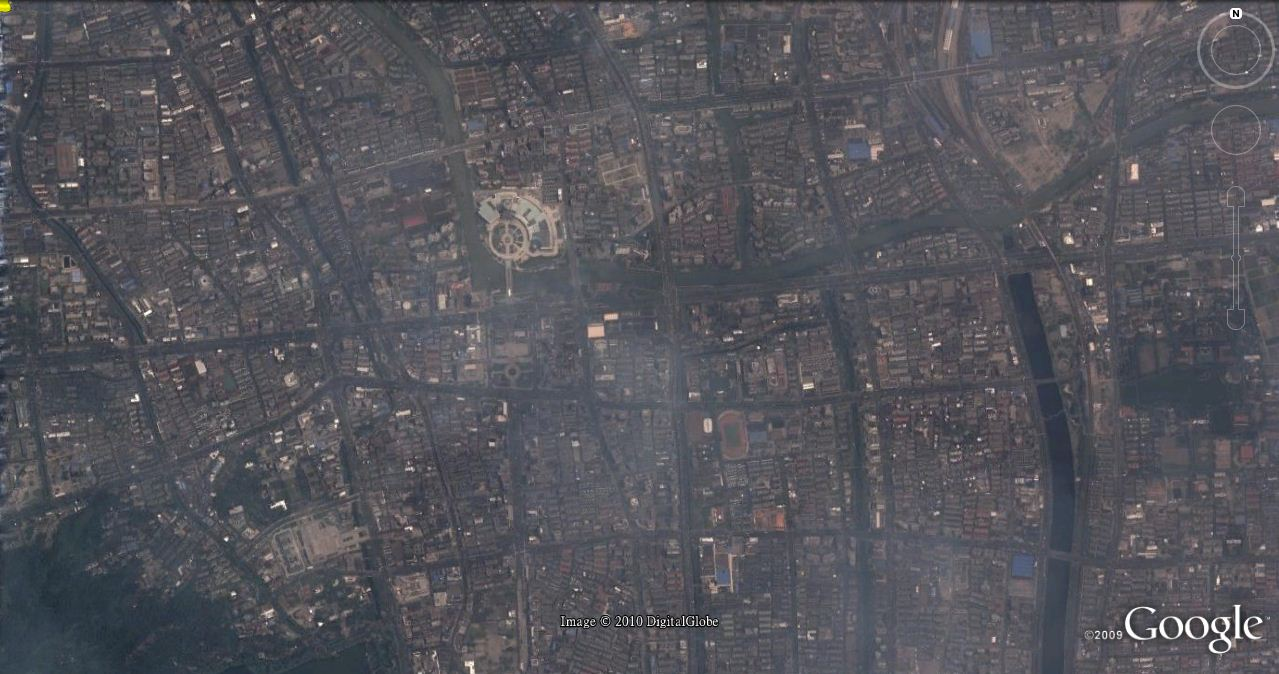
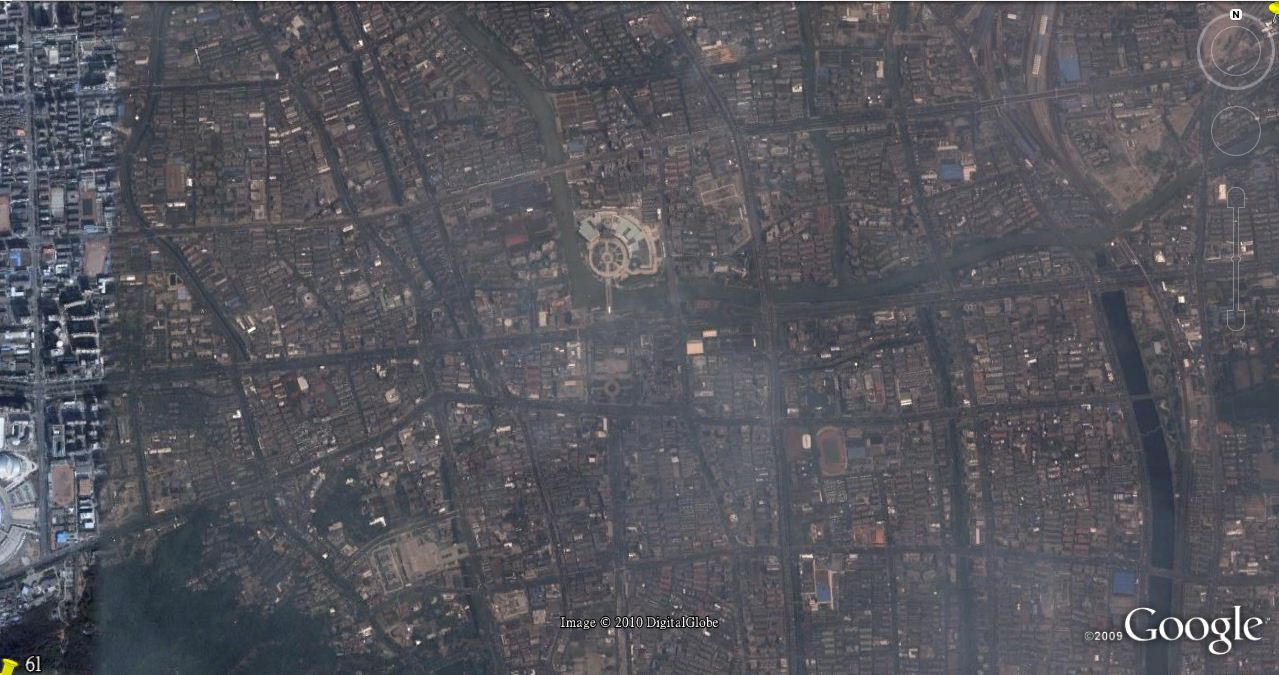
2010.5.2 Learning.Mac.

Changed region(s): [[0.0, 0.0, 1.0, 1.0], [0.7318, 0.8412, 0.7623, 0.9036], [0.5489, 0.997, 0.5794, 1.0]]

diff --git a/worldwind-0.6.358.13015/src/cn/yecols/wwj/ImageDataLayerUtil.java b/worldwind-0.6.358.13015/src/cn/yecols/wwj/ImageDataLayerUtil.java
@@ -9,18 +9,34 @@ public class ImageDataLayerUtil {
 	public ImageDataLayerUtil(){
 		
 		layer = new RenderableLayer();
+		layer.setName("yecol's images date");
+		layer.setPickEnabled(false);
 		
     	SurfaceImage si1 = new SurfaceImage("cn/yecols/images/ywwj001.jpg", Sector.fromDegrees(30.2613,30.2874,120.0785,120.1346));
-    	SurfaceImage si2 = new SurfaceImage("cn/yecols/images/ywwj002.jpg", Sector.fromDegrees(30.2608,30.2873,120.1352,120.1936));
-    	SurfaceImage si3 = new SurfaceImage("cn/yecols/images/ywwj003.jpg", Sector.fromDegrees(30.2414,30.2591,120.0795,120.1186));
-    	SurfaceImage si4 = new SurfaceImage("cn/yecols/images/ywwj004.jpg", Sector.fromDegrees(30.2426,30.2779,120.0579,120.1356));
-    	SurfaceImage si5 = new SurfaceImage("cn/yecols/images/ywwj005.jpg", Sector.fromDegrees(30.2347,30.2642,120.0672,120.1317));
+    	SurfaceImage si2 = new SurfaceImage("cn/yecols/images/ywwj002.jpg", Sector.fromDegrees(30.2613,30.2884,120.1304,120.1899));
     	
-        layer.addRenderable(si1);
-        layer.addRenderable(si2);
+    	SurfaceImage si5 = new SurfaceImage("cn/yecols/images/ywwj005.jpg", Sector.fromDegrees(30.2347,30.2642,120.0672,120.1317));
+    	SurfaceImage si6 = new SurfaceImage("cn/yecols/images/ywwj006.jpg", Sector.fromDegrees(30.2641,30.2888,120.1862,120.2393));
+    	SurfaceImage si7 = new SurfaceImage("cn/yecols/images/ywwj007.jpg", Sector.fromDegrees(30.2389,30.2661,120.1274,120.1870));
+    	SurfaceImage si8 = new SurfaceImage("cn/yecols/images/ywwj008.jpg", Sector.fromDegrees(30.2421,30.2678,120.1805,120.2407));
+    	SurfaceImage si9 = new SurfaceImage("cn/yecols/images/ywwj009.jpg", Sector.fromDegrees(30.2154,30.2445,120.0709,120.1369));
+    	SurfaceImage si10 = new SurfaceImage("cn/yecols/images/ywwj010.jpg", Sector.fromDegrees(30.2182,30.2414,120.1368,120.1883));    
+    	//SurfaceImage si9 = new SurfaceImage("cn/yecols/images/ywwj009.jpg", Sector.fromDegrees(30.2182,30.2414,120.1378,120.1883));
+    	//  SurfaceImage si9 = new SurfaceImage("cn/yecols/images/ywwj009.jpg", Sector.fromDegrees(30.2154,30.2445,120.0731,120.1362));
+    	SurfaceImage si11 = new SurfaceImage("cn/yecols/images/ywwj011.jpg", Sector.fromDegrees(30.1926,30.2214,120.1136,120.1768));    
+    	
+        layer.addRenderable(si11);
+        layer.addRenderable(si10);
         //layer.addRenderable(si3);
         //layer.addRenderable(si4);
+        layer.addRenderable(si9);
+        layer.addRenderable(si8); 
+        layer.addRenderable(si7);
+        layer.addRenderable(si6);
         layer.addRenderable(si5);
+        layer.addRenderable(si2);
+        layer.addRenderable(si1);
+        
 	}
 	
 	public RenderableLayer getLayer(){

diff --git a/worldwind-0.6.358.13015/src/gov/nasa/worldwind/examples/MeasureToolPanel.java b/worldwind-0.6.358.13015/src/gov/nasa/worldwind/examples/MeasureToolPanel.java
@@ -381,6 +381,7 @@ public class MeasureToolPanel extends JPanel
         {
             public void actionPerformed(ActionEvent actionEvent)
             {
+            	System.out.println("<path>");//yecolsMark
                 measureTool.clear();
                 measureTool.setArmed(true);
             }
@@ -408,7 +409,11 @@ public class MeasureToolPanel extends JPanel
         {
             public void actionPerformed(ActionEvent actionEvent)
             {
+            	System.out.println("</path>");//yecolsMark
                 measureTool.setArmed(false);
+                for(int i=1;i<pointLabels.length;i++){
+                	System.out.println(pointLabels[i].getText());
+                }
             }
         });
         buttonPanel.add(endButton);
@@ -517,6 +522,7 @@ public class MeasureToolPanel extends JPanel
     private void fillPointsPanel()
     {
         int i = 0;
+        
         if (measureTool.getPositions() != null)
         {
             for (LatLon pos : measureTool.getPositions())
@@ -524,9 +530,10 @@ public class MeasureToolPanel extends JPanel
                 if (i == this.pointLabels.length)
                     break;
 
-                String las = String.format("Lat %7.4f\u00B0", pos.getLatitude().getDegrees());
-                String los = String.format("Lon %7.4f\u00B0", pos.getLongitude().getDegrees());
+                String las = String.format("<Lat>%7.4f</Lat>", pos.getLatitude().getDegrees());
+                String los = String.format("<Lon>%7.4f</Lon>", pos.getLongitude().getDegrees());
                 pointLabels[i++].setText(las + "  " + los);
+             
             }
         }
         // Clear remaining labels

diff --git a/worldwind-0.6.358.13015/src/cn/yecols/wwj/MeasureToolUsage.java b/worldwind-0.6.358.13015/src/cn/yecols/wwj/MeasureToolUsage.java
@@ -132,12 +132,12 @@ public class MeasureToolUsage extends ApplicationTemplate
 
     public static void main(String[] args)
     {
-    	/*Configuration.setValue(AVKey.INITIAL_LATITUDE, 47.15);
+    	Configuration.setValue(AVKey.INITIAL_LATITUDE, 47.15);
         Configuration.setValue(AVKey.INITIAL_LONGITUDE, -122.74);
         Configuration.setValue(AVKey.INITIAL_ALTITUDE, 300e3);
         Configuration.setValue(AVKey.INITIAL_PITCH, 60);
         Configuration.setValue(AVKey.INITIAL_HEADING, 155);
-        */
+        
         
         ApplicationTemplate.start("World Wind Measure Tool", MeasureToolUsage.AppFrame.class);
     }

diff --git a/worldwind-0.6.358.13015/src/cn/yecols/wwj/ApplicationTemplate.java b/worldwind-0.6.358.13015/src/cn/yecols/wwj/ApplicationTemplate.java
@@ -144,7 +144,9 @@ public class ApplicationTemplate
 
         	ImageDataLayerUtil imageDataLayerUtil=new ImageDataLayerUtil();
         	
-            insertBeforePlacenames(this.getWwd(), imageDataLayerUtil.getLayer());
+            insertAfterPlacenames(this.getWwd(), imageDataLayerUtil.getLayer());
+            //insertBeforeCompass(this.getWwd(), imageDataLayerUtil.getLayer());
+            //this.getLayerPanel().update(this.getWwd());
             //this.getWwd().get
             
             /*

diff --git a/worldwind-0.6.358.13015/experimental/gov/nasa/worldwind/examples/YecolsTest.java b/worldwind-0.6.358.13015/experimental/gov/nasa/worldwind/examples/YecolsTest.java
@@ -66,7 +66,7 @@ public class YecolsTest extends ApplicationTemplate
             {
                 public void selected(SelectEvent event)
                 {
-                    //System.out.println(event.getEventAction() + " - " + event.getTopObject());
+                    System.out.println(event.getEventAction() + " - " + event.getTopObject());
                     
                     /*
                 	if (lastHighlitShape != null

diff --git a/worldwind-0.6.358.13015/src/gov/nasa/worldwind/animation/AnimationSupport.java b/worldwind-0.6.358.13015/src/gov/nasa/worldwind/animation/AnimationSupport.java
@@ -35,7 +35,7 @@ public class AnimationSupport
     }
 
     /**
-     * Calculate a scaled tiome based on the ratio of the angular distance between the <code>begin</code> and
+     * Calculate a scaled time based on the ratio of the angular distance between the <code>begin</code> and
      * <code>end</code> angles over the max value.
      *
      * @param begin the begin angle
